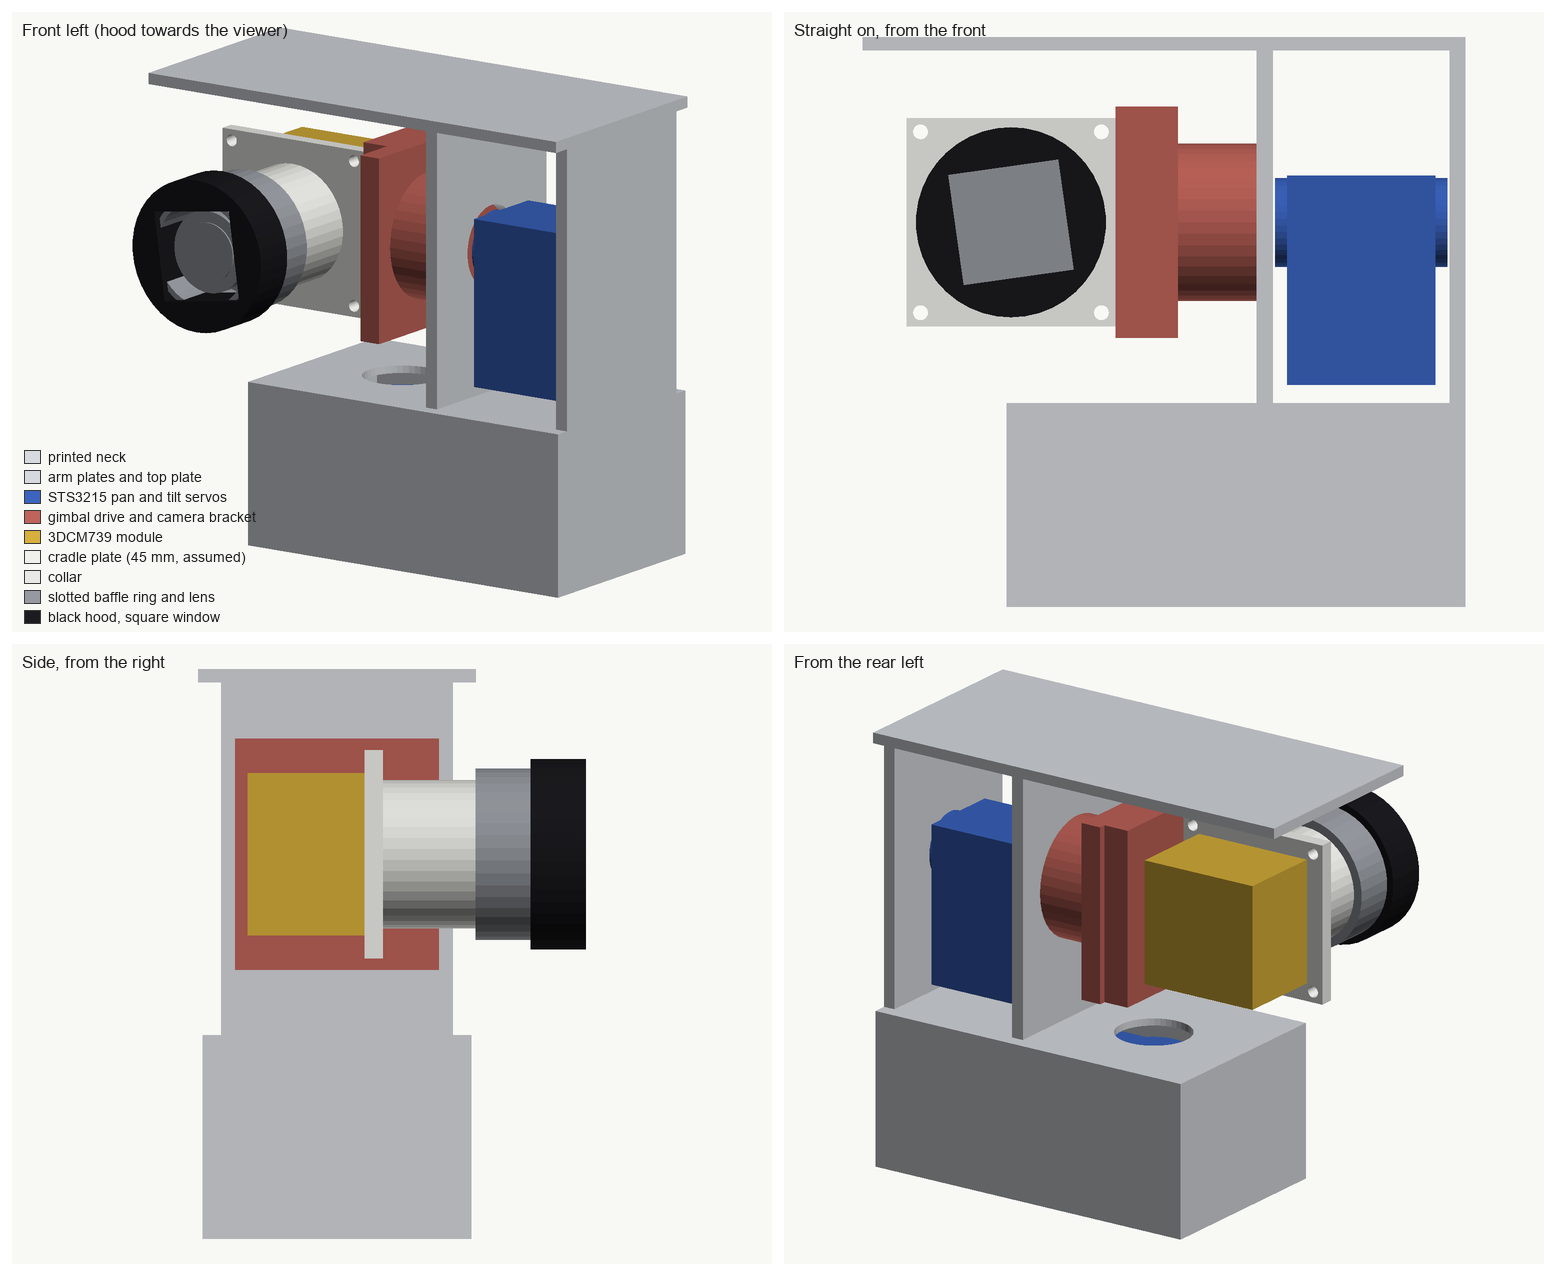
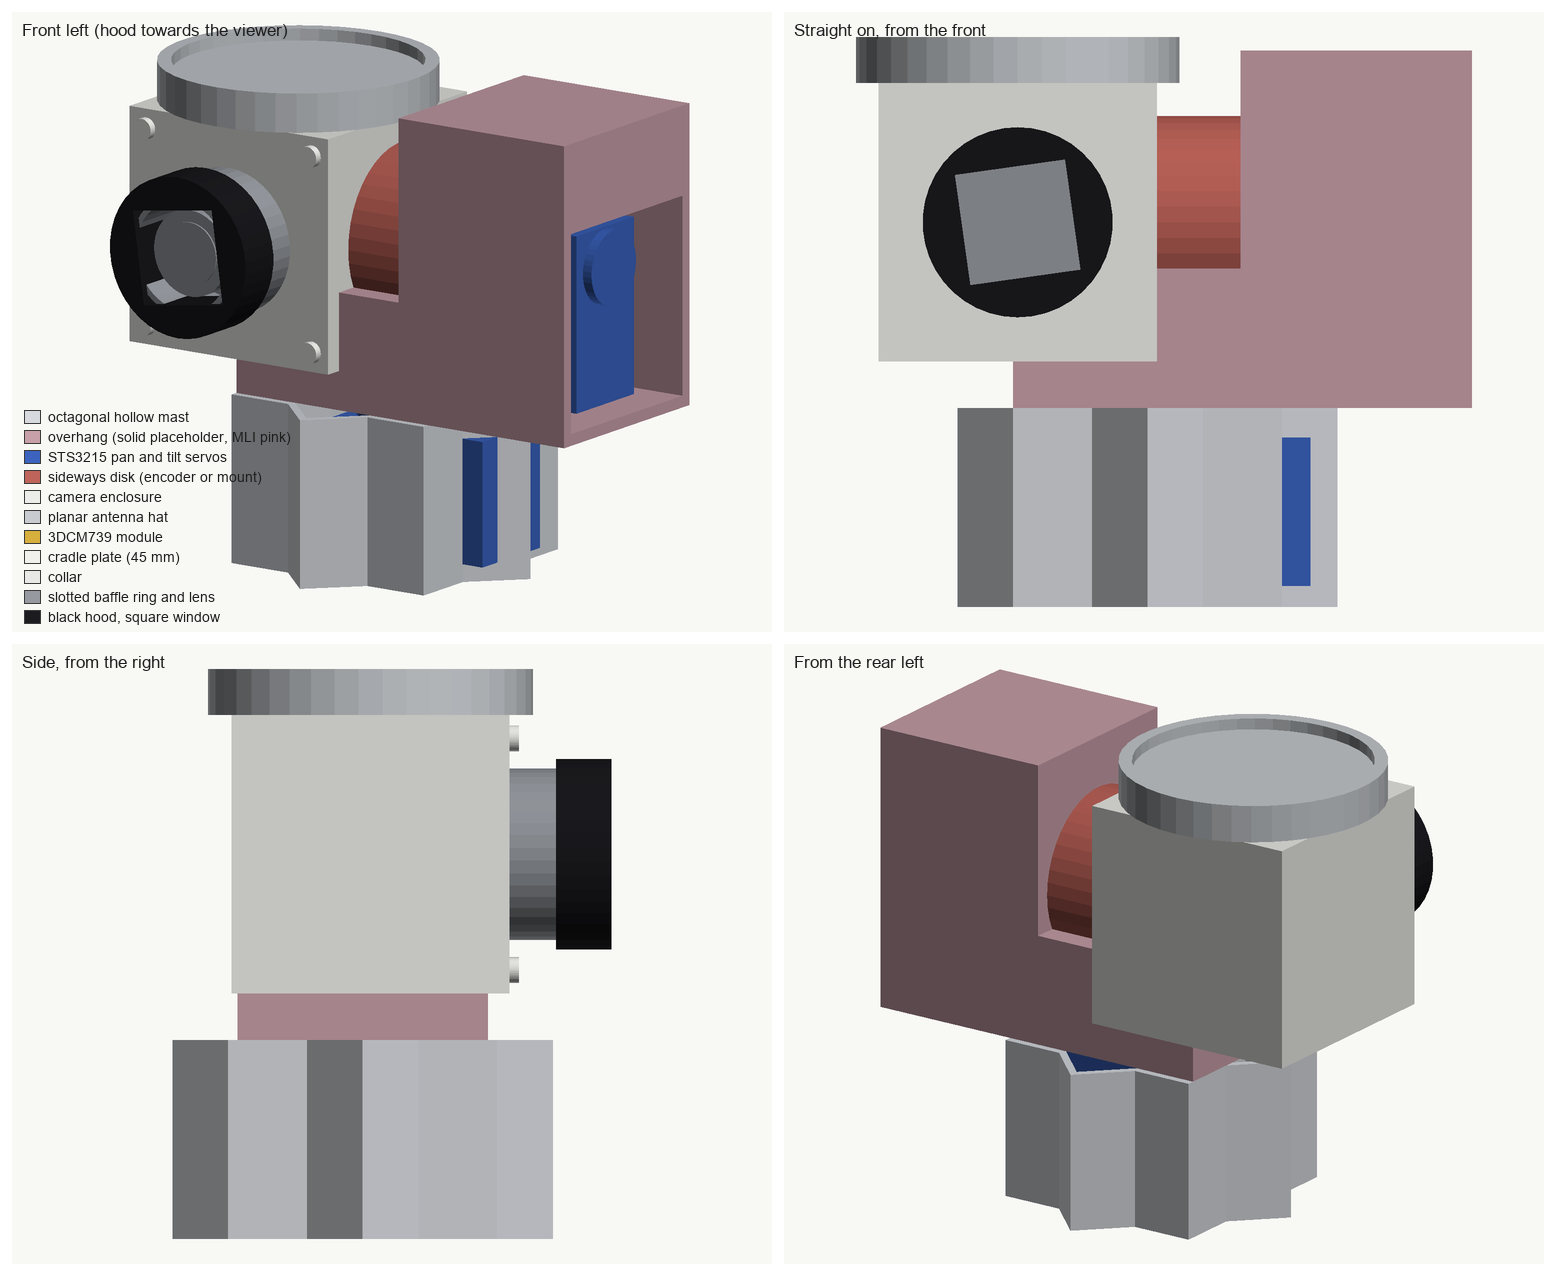
Head concept redone to the owner's reading: octagonal mast, lateral overhang with tilt servo pocket, sideways disk, cube enclosure with CASPEX lens assembly, tilting antenna hat
Claude-Session: https://claude.ai/code/session_01B6dv3NREV4B9HZuFEEB2Rg

diff --git a/hardware/mast/head_concept.py b/hardware/mast/head_concept.py
@@ -51,38 +51,46 @@ def caspex():
     return {"camera body": mod, "cradle": plate, "collar": collar, "baffle": ring + barrel, "hood": hood}
 
 
+def octagon(x, y, z0, z1, across, wall=2.0):
+    def solid(a):
+        return Pos(x, y, (z0 + z1) / 2) * (Box(a, a, z1 - z0) + Rot(0, 0, 45) * Box(a, a, z1 - z0))
+    return solid(across) - Pos(0, 0, 0) * solid(across - 2 * wall) if False else solid(across) - Pos(0, 0, wall) * solid(across - 2 * wall)
+
+
 def head():
+    """Layout from the owner's reading of the CAD figure and the flight photo: hollow octagonal mast, a lateral overhang to +y, the tilt servo in a pocket
+    on the outer (+y) face at the top of the overhang, a sideways disk (encoder or mount) between the overhang and the camera enclosure, a roughly
+    cube-shaped enclosure with the lens assembly on its front, and a flat round antenna hat on top that tilts with the camera."""
+    from build123d import Plane, Polygon, extrude
     parts = {}
-    z_neck0, z_neck1 = MAST.TUBE_Z1, MAST.NECK_Z1
-    w = MAST.TUBE_W
-    neck = H.hollow(TX - w / 2, TX + w / 2, -w / 2, MAST.ARM_Y1, z_neck0, z_neck1)
-    neck = neck - Pos(TX, 0, z_neck1) * Cylinder(H.SV_HORN_D / 2 + 1.0, 5.0)
-    parts["neck"] = neck
-    ax = MAST.ARM_X
-    top_z = MAST.TOP_Z
-    arm_in = box(TX - ax / 2, TX + ax / 2, 25.0, 28.5, z_neck1, top_z - 3)
-    arm_out = box(TX - ax / 2, TX + ax / 2, 66.6, 70.0, z_neck1, top_z - 3)
-    for z in (640.0, 670.0):                                                                       # lightening slots in the outer plate
-        arm_out = arm_out - box(TX - 10, TX + 10, 60, 75, z - 8, z + 8) if False else arm_out
-    arm_in = arm_in - cyl_y(24, 29, TX, AZ, 11.0)
-    top = box(TX - 30.0, TX + 30.0, -60.0, 70.0, top_z - 3, top_z)                                 # thin top plate
-    parts["arm"] = arm_in + arm_out + top
-    # tilt servo in the arm (as head.py), round drive boss, bracket to the camera plate
+    z0, z1 = MAST.TUBE_Z1, 620.0
+    parts["mast"] = octagon(TX, 0.0, z0, z1, MAST.TUBE_W)
+    pts = [(-29.0, z1), (70.0, z1), (70.0, 697.0), (20.0, 697.0), (20.0, 650.0), (-29.0, 650.0)]      # overhang profile in (y, z); solid placeholder
+    over = Pos(TX - 27.0, 0, 0) * extrude(Plane.YZ * Polygon(*pts, align=None), amount=54.0)
+    over = over - box(TX - 24.0, TX + 24.0, 27.0, 71.0, 623.0, 674.0)                                # pocket for the tilt servo, open to +y
+    parts["overhang"] = over
     tilt = Pos(TX, 47.5, AZ) * Rot(-90, 0, 0) * Rot(0, 0, 90) * H.sts3215()
-    pan = Pos(TX, 0, z_neck0 + H.WALL + H.SV_TOTAL / 2) * Rot(0, 0, 90) * H.sts3215()
+    pan = Pos(TX, 0, z0 + H.WALL + H.SV_TOTAL / 2) * Rot(0, 0, 90) * H.sts3215()
     parts["servos"] = tilt + pan
-    boss = cyl_y(8.0, 25.0, TX, AZ, 17.0)                                                          # round drive housing (red in the CAD figure)
-    yoke = box(TX - 22, TX + 22, 2.0, 8.0, AZ - 25, AZ + 25)
-    wing = box(TX - 20, FX - 73 + 25.2 + 4, CY + 22.5 - 0.0, 2.0, AZ - 25, AZ + 25)                # from the yoke across to the cradle plate
-    parts["bracket"] = boss + yoke + wing
-    parts.update(caspex())
+    parts["disk"] = cyl_y(2.0, 20.0, TX, AZ, 23.0)                                                   # sideways disk, encoder or mounting, ASSUMPTION
+    x_face = FX - 22.0
+    cube = H.hollow(x_face - 60.0, x_face, CY - 30.0, CY + 30.0, AZ - 30.0, AZ + 30.0)               # roughly cubic enclosure, 60 mm, ASSUMPTION
+    cube = cube - cyl_x(x_face - 3.0, x_face + 1.0, CY, AZ, 17.5)
+    for sy in (-1, 1):
+        for sz in (-1, 1):
+            cube = cube + cyl_x(x_face, x_face + 2.0, CY + sy * 25.0, AZ + sz * 25.0, 2.8)           # corner screw heads
+    parts["enclosure"] = cube
+    parts["antenna hat"] = Pos(x_face - 30.0, CY, AZ + 30.0 + 3.5) * Cylinder(35.0, 7.0) + \
+        (Pos(x_face - 30.0, CY, AZ + 30.0 + 8.5) * Cylinder(35.0, 3.0) - Pos(x_face - 30.0, CY, AZ + 30.0 + 8.5) * Cylinder(31.5, 3.2))
+    c = caspex()
+    parts["camera body"], parts["cradle"], parts["collar"], parts["baffle"], parts["hood"] = (c[k] for k in ("camera body", "cradle", "collar", "baffle", "hood"))
     return parts
 
 
-COL = {"neck": (214, 217, 222), "arm": (214, 217, 222), "servos": (60, 100, 190), "bracket": (190, 100, 90), "camera body": (214, 175, 60),
+COL = {"mast": (214, 217, 222), "overhang": (200, 160, 170), "servos": (60, 100, 190), "disk": (190, 100, 90), "enclosure": (236, 236, 232), "antenna hat": (200, 204, 208), "camera body": (214, 175, 60),
        "cradle": (240, 240, 236), "collar": (232, 232, 228), "baffle": (150, 154, 160), "hood": (28, 28, 32)}
-NAMES = {"neck": "printed neck", "arm": "arm plates and top plate", "servos": "STS3215 pan and tilt servos", "bracket": "gimbal drive and camera bracket",
-         "camera body": "3DCM739 module", "cradle": "cradle plate (45 mm, assumed)", "collar": "collar", "baffle": "slotted baffle ring and lens", "hood": "black hood, square window"}
+NAMES = {"mast": "octagonal hollow mast", "overhang": "overhang (solid placeholder, MLI pink)", "servos": "STS3215 pan and tilt servos", "disk": "sideways disk (encoder or mount)", "enclosure": "camera enclosure", "antenna hat": "planar antenna hat",
+         "camera body": "3DCM739 module", "cradle": "cradle plate (45 mm)", "collar": "collar", "baffle": "slotted baffle ring and lens", "hood": "black hood, square window"}
 
 
 def main():
